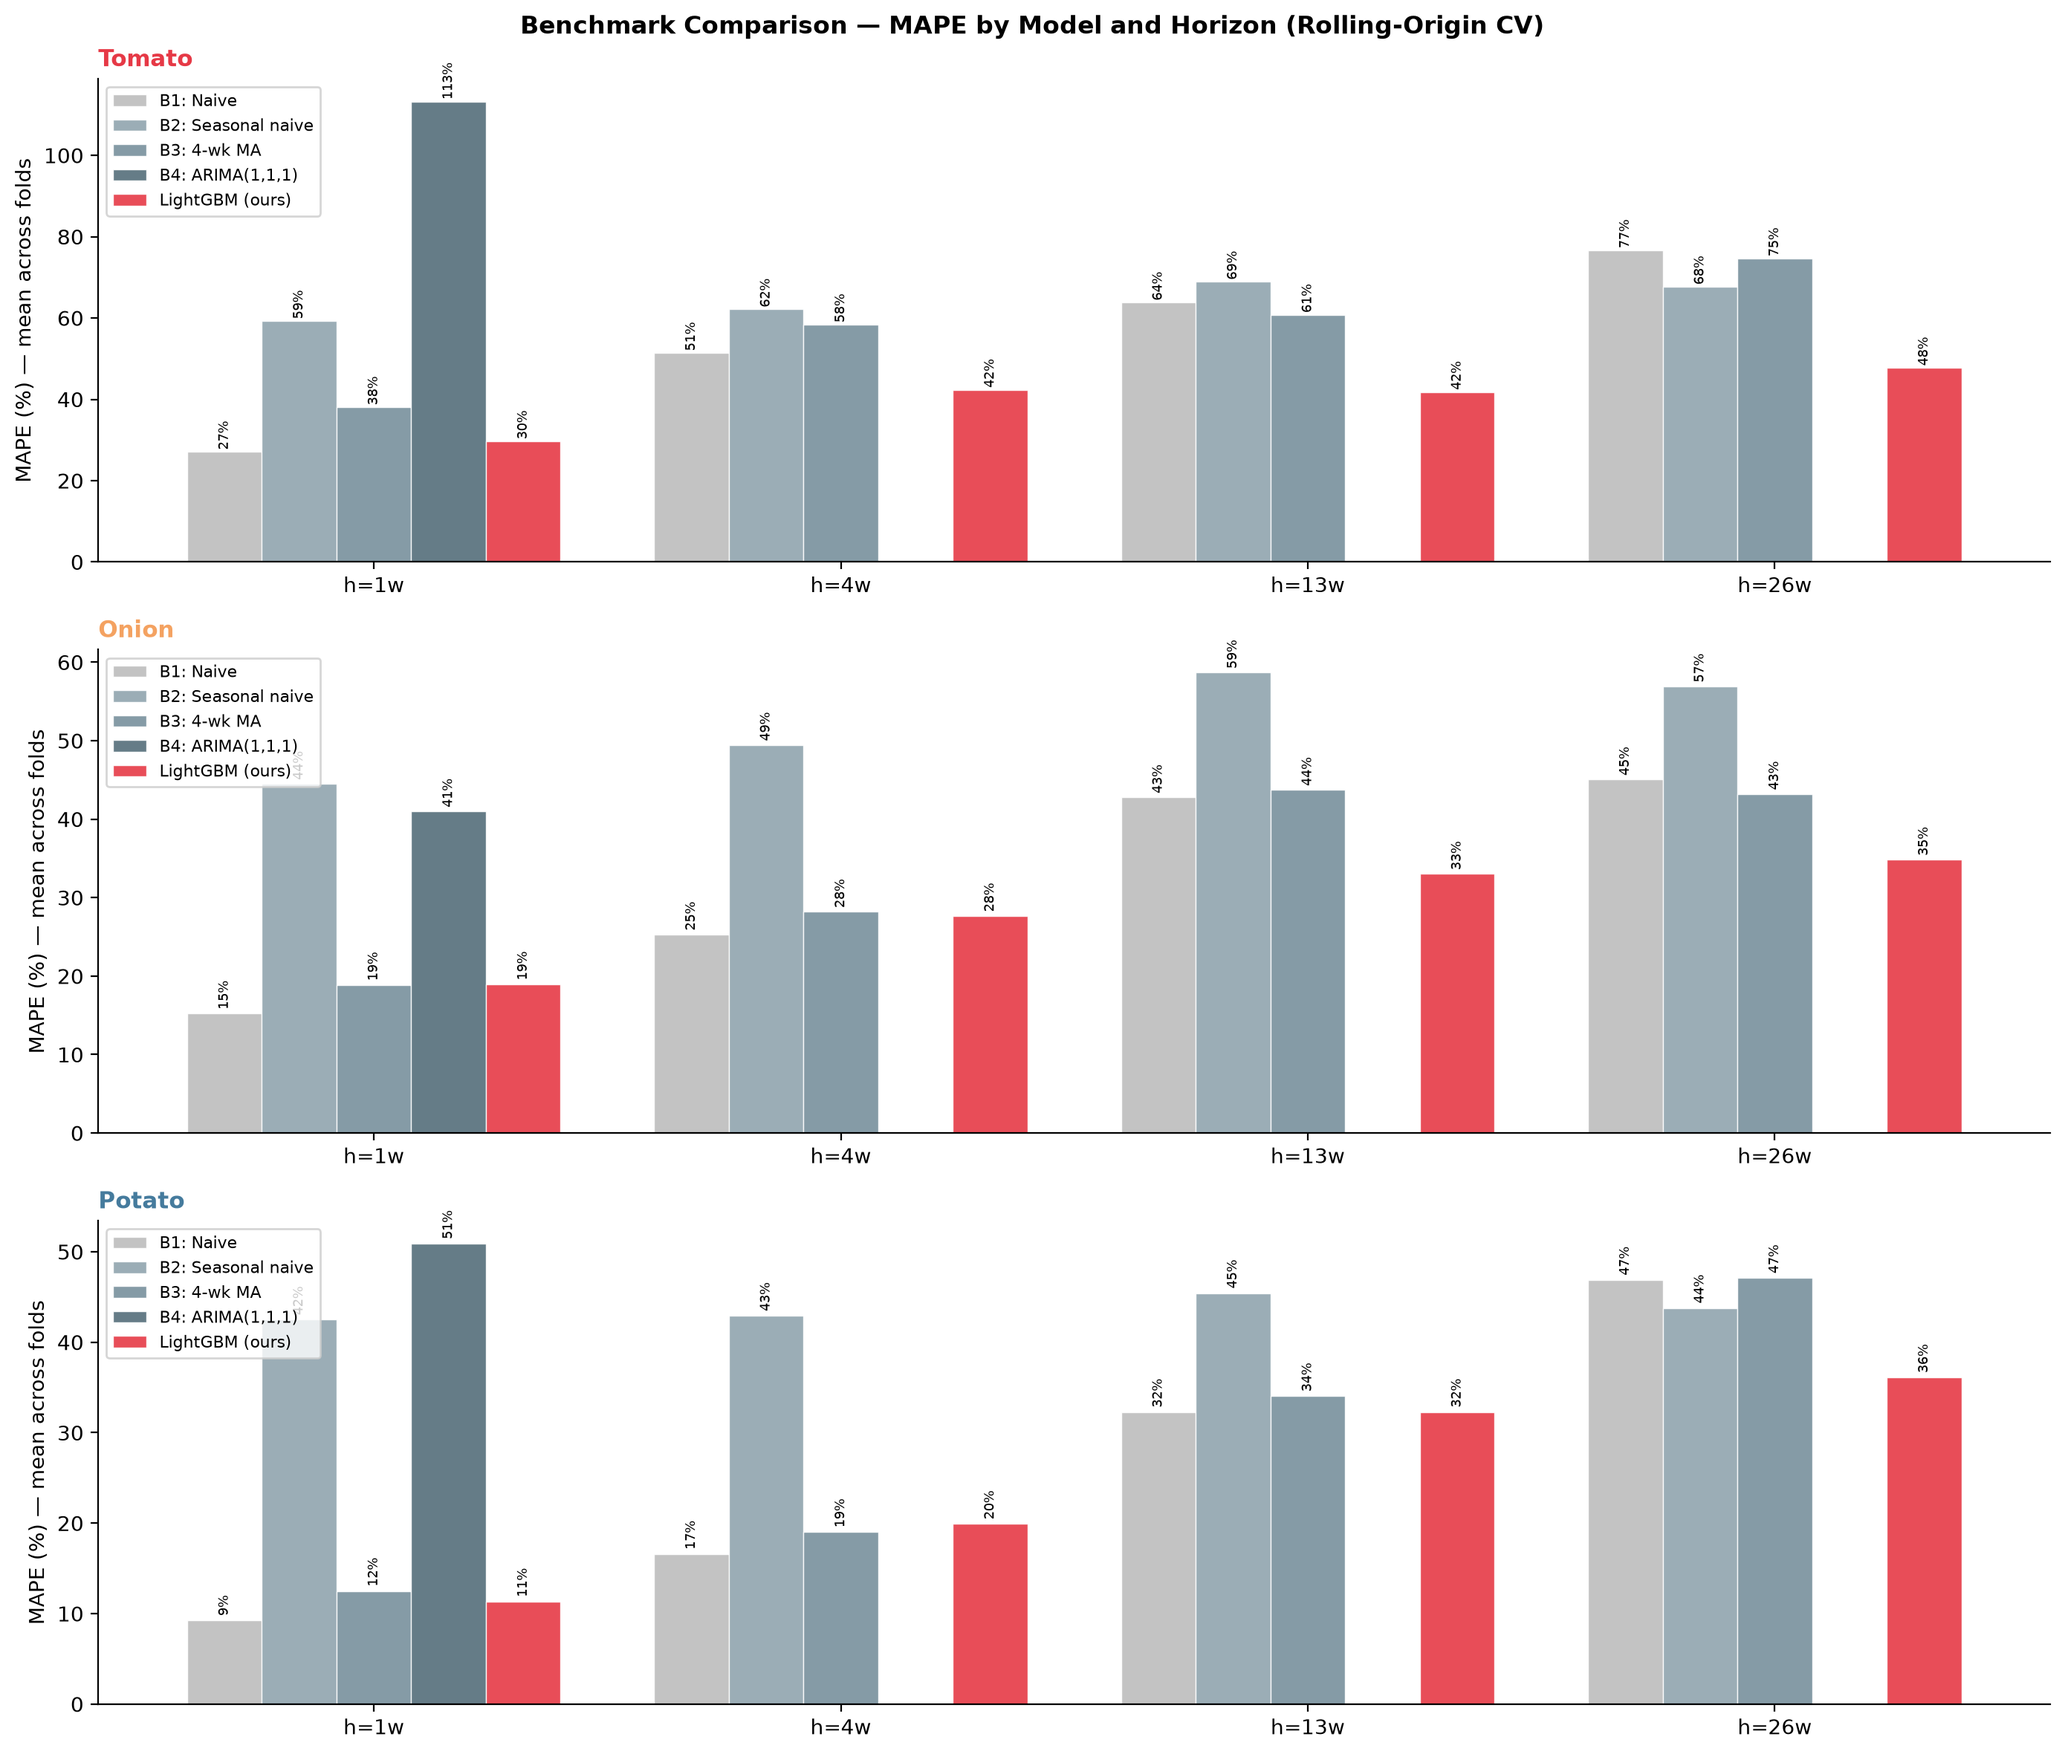
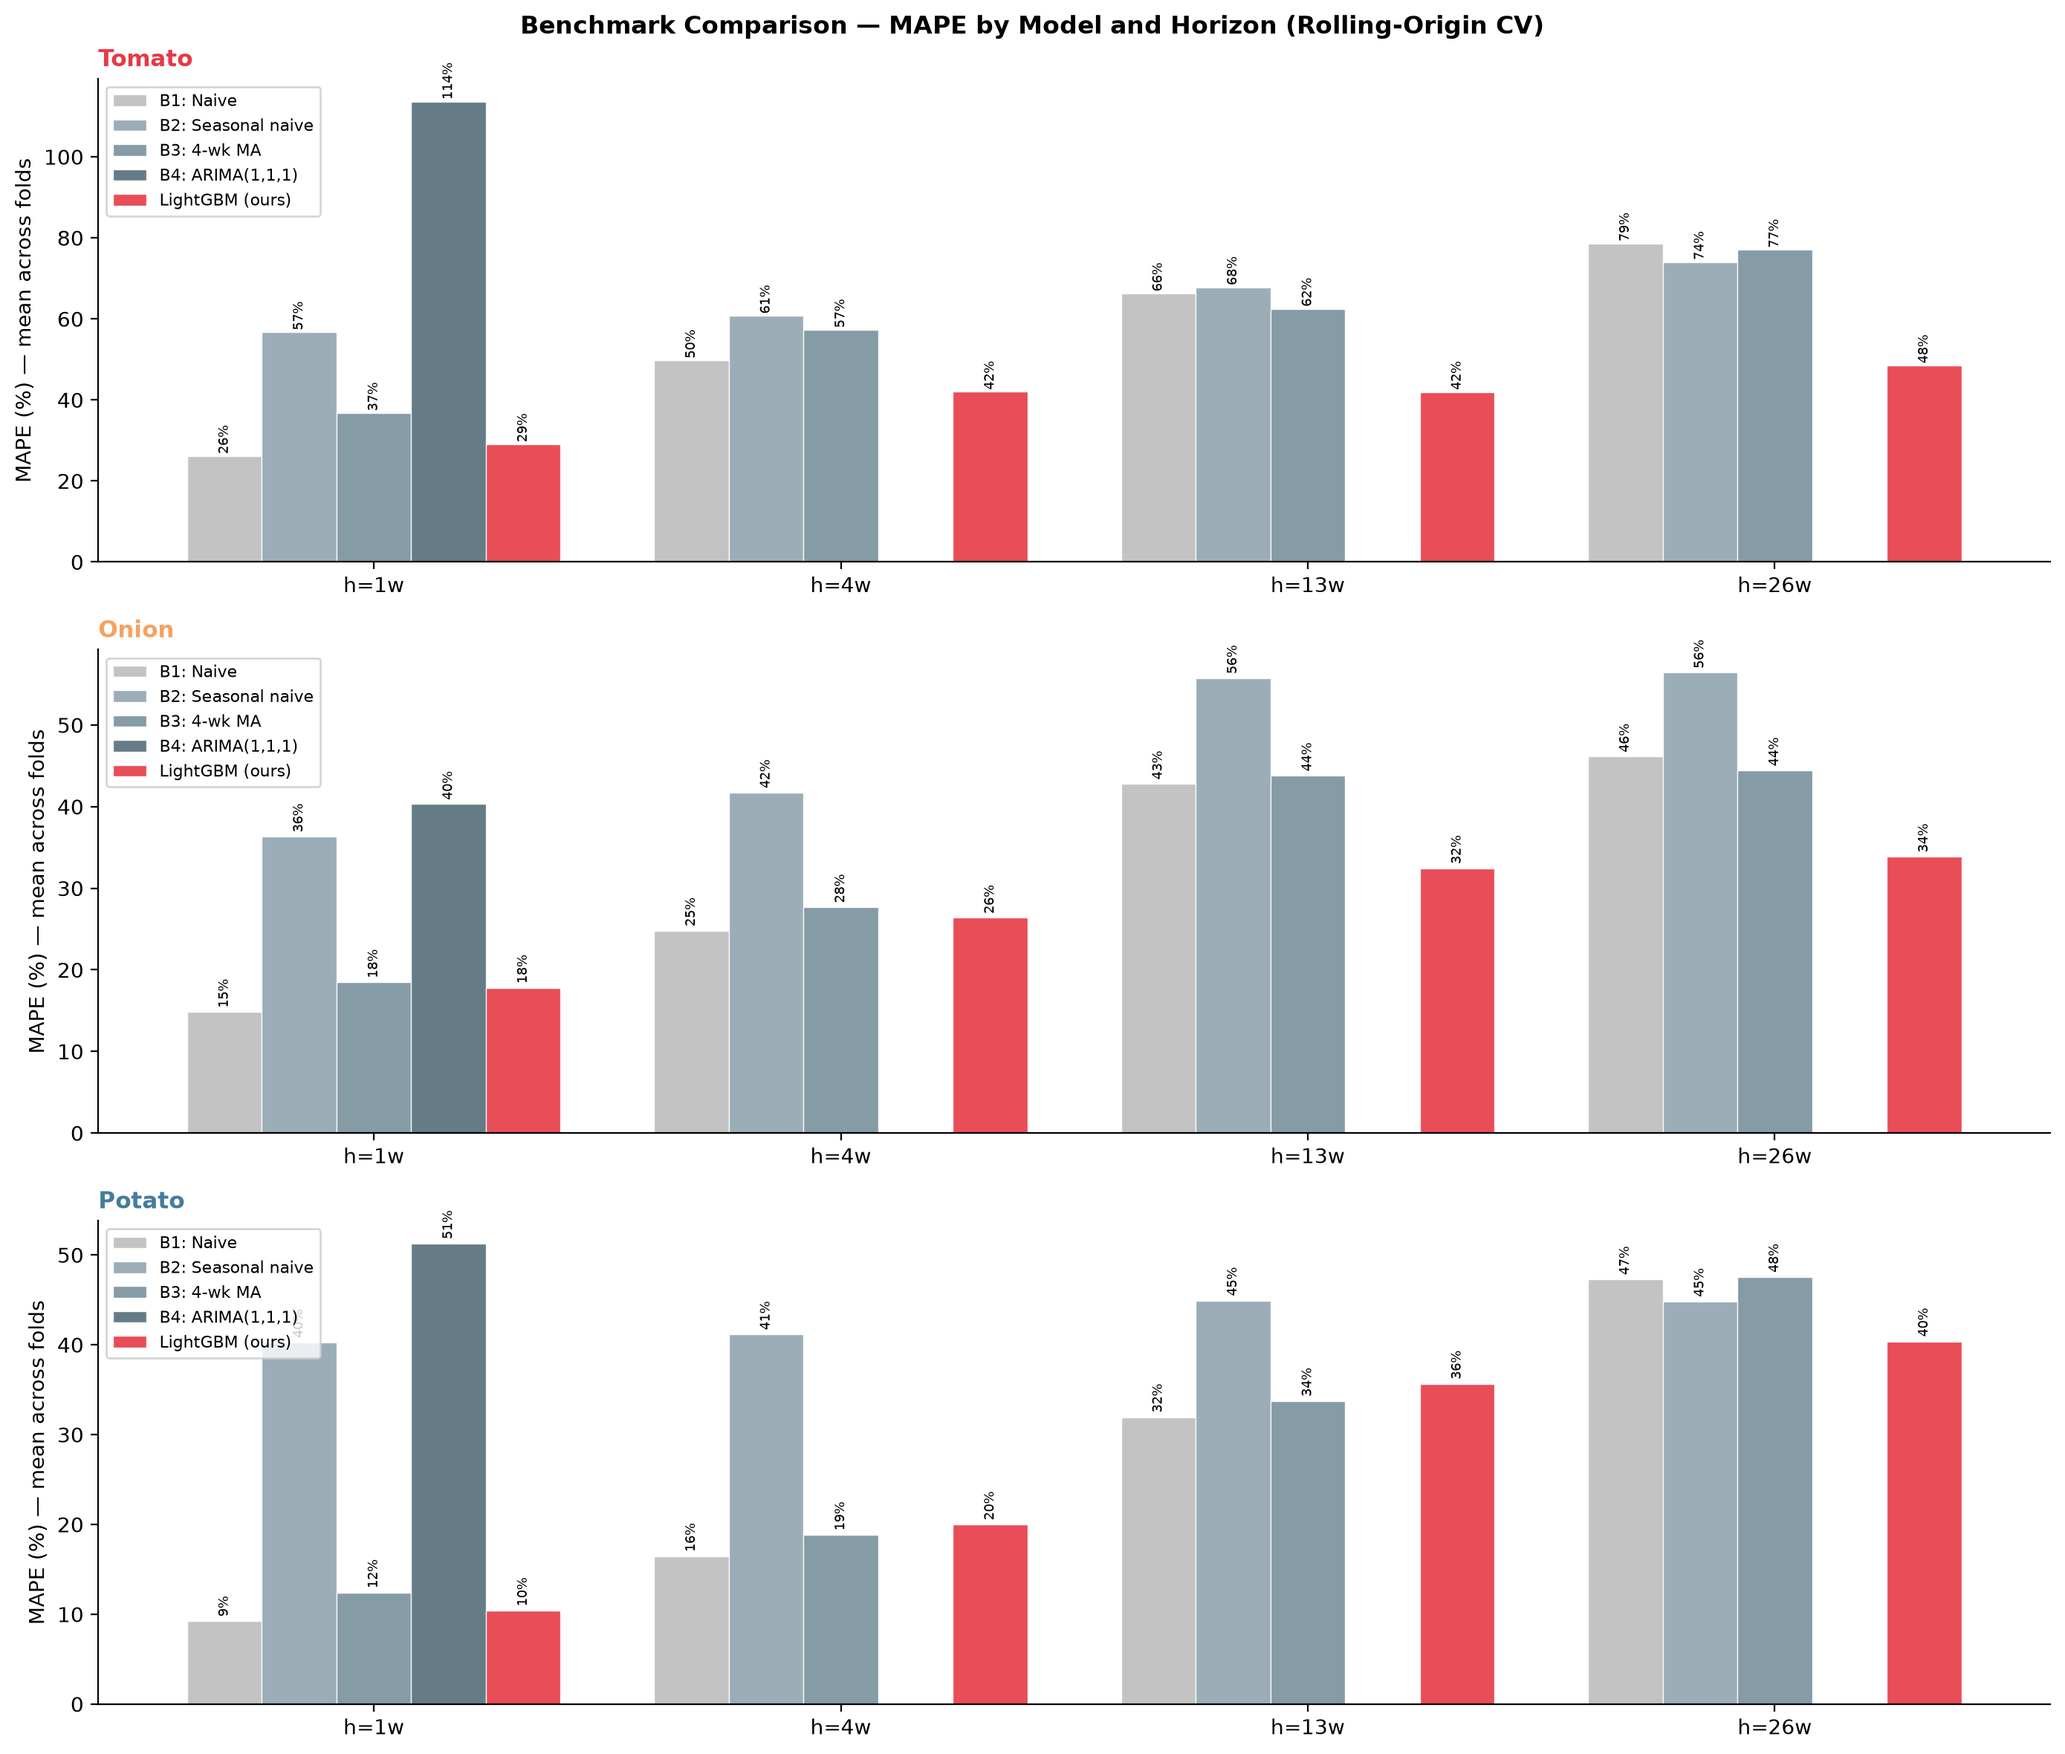
Re-run Script 13's remaining benchmarks (Seasonal/MA4/ARIMA) on current panel
Naive B1's own reported numbers here are still on this script's independent
3-fold structure, kept distinct from Script 15's inline naive baseline
used for M0-M6 comparisons. Confirms B2_Seasonal/B3_MA4/B4_ARIMA are all
clearly weaker baselines than naive persistence across all 3 crops --
consistent with the rest of tonight's naive-baseline findings.

diff --git a/Model_Output/MANIFEST.md b/Model_Output/MANIFEST.md
@@ -22,7 +22,7 @@ Status legend: 🟢 current · 🟡 stale, known, re-run pending · ⚫ deprecat
 | `09_Agmarknet_Weekly_Panel.py` | `data/agmarknet_weekly/*.csv` (not in Model_Output) | 2026-07-28 | 🟢 | 70% coverage filter, full 2017-2026 window |
 | `11_Market_Selection_And_DataStructure.py` | `filtered_panel_top.csv`, `appendix_market_selection.xlsx`, `fig01-05_*.png` | 2026-07-29 | 🟢 | Fixed two independent inconsistencies before re-running: its own hardcoded `COVERAGE_THRESHOLD` was 90% (now 70%, matching Script 09), and its coverage % used a fixed 2017-2025 denominator instead of each market's own grid span (now matches Script 09's `MIN_REAL_COVERAGE` definition exactly). Confirms 517/246/82 markets selected at 100% -- this appendix now describes the identical canonical panel used everywhere else. |
 | `12_ModuleB_RollingOrigin_MultiHorizon.py` | `table_rolling_origin_metrics.csv`, `table_spike_auc.csv`, `fig_horizon_r2.png`, `fig_rolling_origin_rmse.png`, `fig_spike_roc.png`, `fig_mape_by_horizon.png` | 2026-07-29 | 🟢 | Re-run tonight; also fixed a real bug (a string column — `imputed_method` — was crashing LightGBM's feature matrix, missing from the exclude-list since this script predates that column existing). Own 3-fold structure (test years 2022-2024) — independent of Script 15's 4-fold setup, not directly comparable. |
-| `13_Benchmark_Models.py` | `table_benchmarks.csv`, `table_comparison.csv`, `fig_benchmark_comparison.png`, `fig_skill_score.png`, `fig_r2_comparison_heatmap.png` | 2026-07-13 | ⚫ | **Deprecated as of 2026-07-29.** Its B1_Naive numbers were being cited as the ablation study's naive baseline despite using a different, mismatched 3-fold structure and stale data — this was silently wrong. Script 15 now computes naive persistence inline on its own folds instead; this script's naive output should no longer be used for that comparison. Its other benchmarks (seasonal, MA4, ARIMA) haven't been re-validated against the current panel. |
+| `13_Benchmark_Models.py` | `table_benchmarks.csv`, `table_comparison.csv`, `fig_benchmark_comparison.png`, `fig_skill_score.png`, `fig_r2_comparison_heatmap.png` | 2026-07-29 | 🟢 | Re-run on current panel (3.0 min). **B1_Naive here is still not the ablation study's naive baseline** — this script's own 3-fold structure (test years 2022-2024) differs from Script 15's 4-fold setup (through 2025); use Script 15's inline B1_Naive for any M0-M6 comparison. B2_Seasonal/B3_MA4/B4_ARIMA are all clearly weaker than naive persistence across all 3 crops, consistent with the rest of tonight's findings. |
 | `14_Satellite_Climate_Features.py` | `fig_era5_temperature.png`, `fig_chirps_rainfall_heatmap.png`, `fig_s2_ndvi_anomaly.png`, `fig_satellite_cross_validation.png`, `fig_climate_satellite_correlation.png`, `data/satellite_climate/*.csv` | 2026-07-28 | 🟢 | Includes real ERA5/CHIRPS/S2/MODIS for the relocated potato zones |
 | `15_Ablation_Study_M0_M4.py` | `ablation_raw_results.csv`, `ablation_predictions.csv`, `table_ablation.csv`, `table_mase.csv`, `fig_ablation_*.png` | 2026-07-29 | 🟢 | Full M0-M6 + inline B1_Naive (see note on Script 13 above). Has two run modes controlled by `MARKET_LEVEL_DIAGNOSTIC` at the top of the script — check which mode before re-running: `False` = full ablation (this table), `True` = market-level diagnostic for Script 18b (`dm_market_level_*.csv`). Resting state is `True`. |
 | `15b_Tree_Model_Comparison.py` | `table_tree_model_comparison*.csv`, `fig_tree_model_comparison.png` | 2026-07-29 | 🟢 | Re-run on current panel (114.8 min, RandomForest 98.8 of those). Same conclusion holds: RandomForest clearly worst, LightGBM/XGBoost/CatBoost competitive with no consistent winner — validates production LightGBM. |
